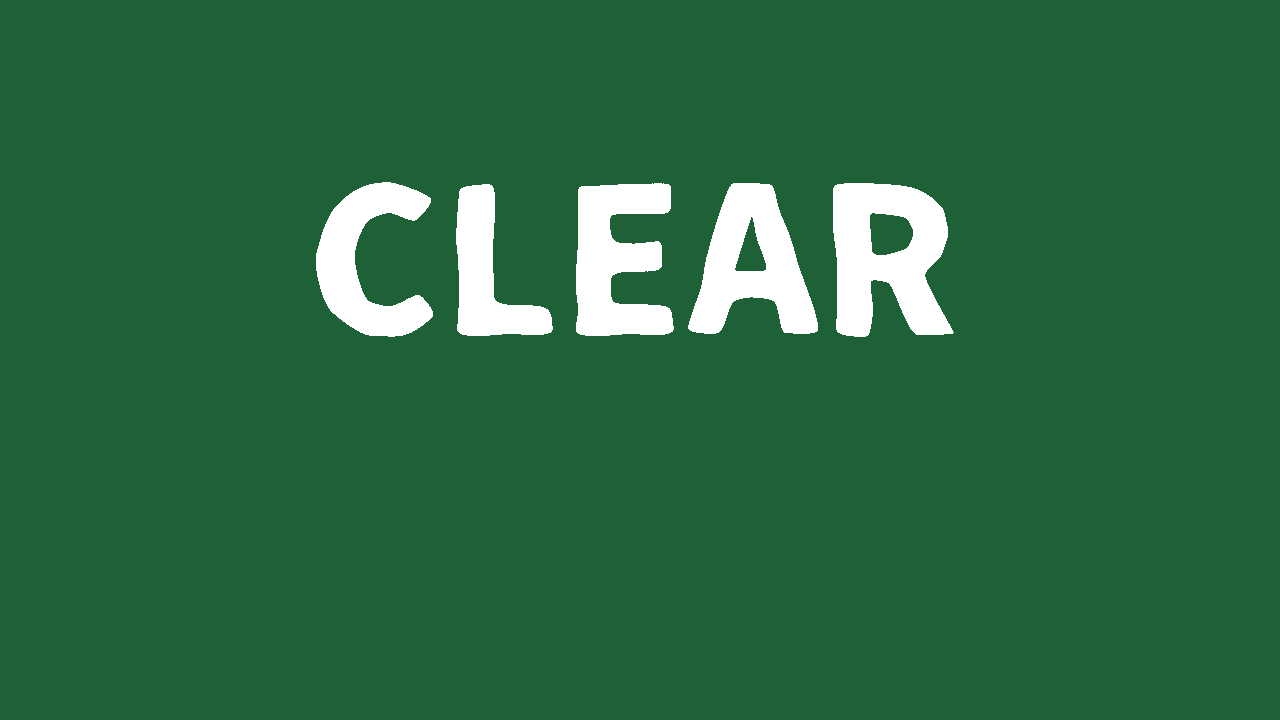
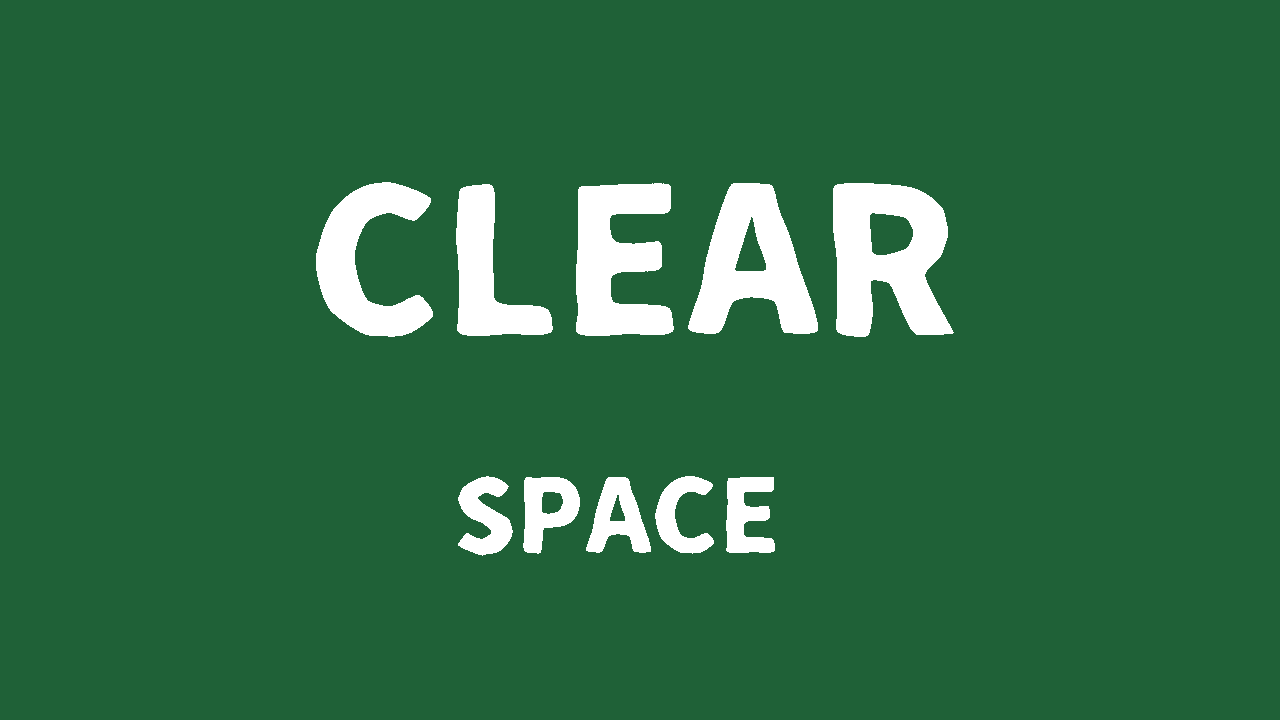
操作説明の追加

Changed region(s): [[0.3438, 0.6417, 0.625, 0.7639]]

diff --git a/Application/Scene/GamePlayScene.cpp b/Application/Scene/GamePlayScene.cpp
@@ -35,7 +35,7 @@ void GamePlayScene::Initialize()
 	monsterBall = texture->LoadTexture("Resources/SampleAssets/monsterBall.png");
 	Doll = texture->LoadTexture("Resources/SampleAssets/Doll.png");
 	circle = texture->LoadTexture("Resources/SampleAssets/circle.png");
-
+	configTexture = texture->LoadTexture("Resources/Scene/config.png");
 
 	camera = new Camera;
 	camera->Initialize();
@@ -64,11 +64,15 @@ void GamePlayScene::Initialize()
 	skydome = std::make_unique<Skydome>();
 	skydome->Initialize();
 
+	goal = std::make_unique<Goal>();
+	goal->Initialize();
+
 	cameraController = new CameraController;
 	cameraController->Initialize(camera);
 	cameraController->SetTarget(player.get());
 	cameraController->Reset();
 
+	config.reset(Sprite::Create(configTexture));
 
 	//triangle.reset(Triangle::Create(uvTexture));
 	//triangle2.reset(Triangle::Create(monsterBall));
@@ -137,15 +141,17 @@ void GamePlayScene::Update()
 
 	colliderManager_->UpdateWorldTransform();
 
-	if (input->TriggerKey(DIK_RETURN))
+	if (player->GetHitGoal() == true)
 	{
 		sceneManager_->ChangeScene("CLEAR");
 	}
+
 	if (input->TriggerKey(DIK_0))
 	{
 		sceneManager_->ChangeScene("GAMEOVER");
 	}
 
+	config->Update();
 
 	//triangle->Update();
 	//triangle->GetWorldTransform()->rotation_.y += 0.03f;
@@ -201,6 +207,7 @@ void GamePlayScene::Update()
 	}
 
 	skydome->Update();
+	goal->Update();
 
 	CheckAllCollisions();
 
@@ -243,8 +250,11 @@ void GamePlayScene::Draw()
 		enemy->Draw(camera);
 	}
 
+	goal->Draw(camera);
 
 	colliderManager_->Draw(camera);
+
+	config->Draw(camera);
 }
 
 void GamePlayScene::CheckAllCollisions()
@@ -270,6 +280,8 @@ void GamePlayScene::CheckAllCollisions()
 			colliderManager_->AddColliders(enemy);
 		}
 	}
+	colliderManager_->AddColliders(goal.get());
+
 	//colliderManager_->AddColliders(levelEditor);
 	//当たり判定
 	colliderManager_->ChackAllCollisions();

diff --git a/Application/Object/Goal/Goal.cpp b/Application/Object/Goal/Goal.cpp
@@ -1,0 +1,63 @@
+#include "Goal.h"
+
+void Goal::Initialize()
+{
+	Collider::SetTypeID(CollisionTypeDef::kGoal);
+	Collider::SetColliderTypeID(ColliderType::SPHERE);
+
+	goalModel.reset(Model::Create("Resources/Object/Goal/goal.obj"));
+	goalModel->GetWorldTransform()->translation_.x = 39.0f;
+	goalModel->GetWorldTransform()->translation_.y = -1.0f;
+
+	goalModels = { goalModel.get() };
+
+	GameObject::Initialize();
+	GameObject::SetModel(goalModels);
+}
+
+void Goal::Update()
+{
+	GameObject::Update();
+
+	goalModel->Update();
+
+	goalModel->ModelDebug("goal");
+}
+
+void Goal::Draw(Camera* camera)
+{
+	goalModel->Draw(camera);
+}
+
+Vector3 Goal::GetWorldPosition()
+{
+	// ワールド座標を入れる変数
+	Vector3 worldpos;
+
+	// ワールド行列の平行移動成分を取得(ワールド座標)
+	worldpos.x = goalModel->GetWorldTransform()->matWorld_.m[3][0];
+	worldpos.y = goalModel->GetWorldTransform()->matWorld_.m[3][1];
+	worldpos.z = goalModel->GetWorldTransform()->matWorld_.m[3][2];
+
+	return worldpos;
+}
+
+AABB Goal::GetAABB()
+{
+	Vector3 worldPos = GetWorldPosition();
+	AABB aabb;
+
+	aabb.min = { worldPos.x - goalModel->GetWorldTransform()->scale_.x / 2.0f,worldPos.y - goalModel->GetWorldTransform()->scale_.y / 2.0f,worldPos.z - goalModel->GetWorldTransform()->scale_.z / 2.0f };
+	aabb.max = { worldPos.x + goalModel->GetWorldTransform()->scale_.x / 2.0f,worldPos.y + goalModel->GetWorldTransform()->scale_.y / 2.0f,worldPos.z + goalModel->GetWorldTransform()->scale_.z / 2.0f };
+
+	return aabb;
+}
+
+void Goal::OnCollision(Collider* other)
+{
+	uint32_t typeID = other->GetTypeID();
+	if (typeID == static_cast<uint32_t>(CollisionTypeDef::kWeapon))
+	{
+		
+	}
+}

diff --git a/Application/Scene/GamePlayScene.h b/Application/Scene/GamePlayScene.h
@@ -23,6 +23,7 @@
 #include"Object/CameraController/CameraController.h"
 #include"Object/Player/Weapon.h"
 #include"Object/Ground/Ground.h"
+#include"Object/Goal/Goal.h"
 
 #include"LevelEditor.h"
 
@@ -56,6 +57,7 @@ private:
 	uint32_t Doll;
 	uint32_t circle;
 
+	uint32_t configTexture;
 	
 
 	Camera* camera;
@@ -80,8 +82,11 @@ private:
 	std::unique_ptr <Player> player;
 	std::list<Enemy*> enemys;
 	std::unique_ptr <Skydome>skydome;
+	std::unique_ptr <Goal>goal;
 	CameraController* cameraController;
 	std::unique_ptr<Weapon>weapon;
 	std::list<Ground*>grounds;
+
+	std::unique_ptr<Sprite> config = nullptr;
 };
 

diff --git a/Application/Object/Player/Player.cpp b/Application/Object/Player/Player.cpp
@@ -89,6 +89,7 @@ void Player::Update()
 	//kJumpAcceleration = kJumpAcceleration_[0];
 
 
+
 }
 
 void Player::Draw(Camera* camera)
@@ -124,14 +125,11 @@ AABB Player::GetAABB()
 void Player::OnCollision(Collider* other)
 {
 	uint32_t typeID = other->GetTypeID();
-	if (typeID == static_cast<uint32_t>(CollisionTypeDef::kMap))
+	if (typeID == static_cast<uint32_t>(CollisionTypeDef::kGoal))
 	{
-		//playerModel->SetisInvisible(true);
+		hitGoal = true;
 	}
-	else
-	{
-		//playerModel->SetisInvisible(false);
-	}
+	
 }
 
 void Player::Move()

diff --git a/Application/Object/Goal/Goal.h b/Application/Object/Goal/Goal.h
@@ -1,0 +1,22 @@
+#pragma once
+#include"GameObject.h"
+#include"Object/CollisionConfig.h"
+#include"Model.h"
+
+class Goal :public GameObject
+{
+public:
+	void Initialize()override;
+	void Update()override;
+	void Draw(Camera* camera)override;
+
+	Vector3 GetWorldPosition()override;
+
+	AABB GetAABB()override;
+
+	void OnCollision(Collider* other)override;
+
+private:
+	std::unique_ptr<Model>goalModel;
+	std::vector<Model*>goalModels;
+};

diff --git a/Application/Object/Player/Player.h b/Application/Object/Player/Player.h
@@ -30,6 +30,11 @@ public:
 	AABB GetAABB()override;
 	void OnCollision([[maybe_unused]] Collider* other)override;
 
+	bool GetHitGoal()
+	{
+		return hitGoal;
+	}
+
 	void SetWeapon(Weapon* weapon)
 	{
 		weapon_ = weapon;
@@ -116,6 +121,8 @@ private:
 	float kBlank = 1.5f;
 
 	bool isJump = false;
+
+	bool hitGoal = false;
 
 private:
 

diff --git a/Application/Object/CollisionConfig.h b/Application/Object/CollisionConfig.h
@@ -9,7 +9,7 @@ enum class CollisionTypeDef : uint32_t
 	kWeapon,
 	kEnemy,
 	kMap,
-	
+	kGoal,
 };
 
 enum class ColliderType : uint32_t
